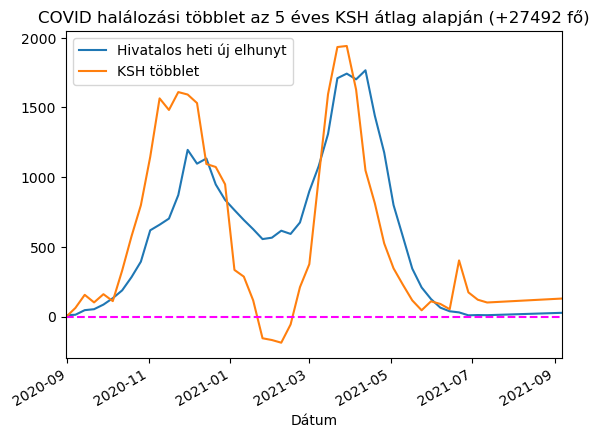
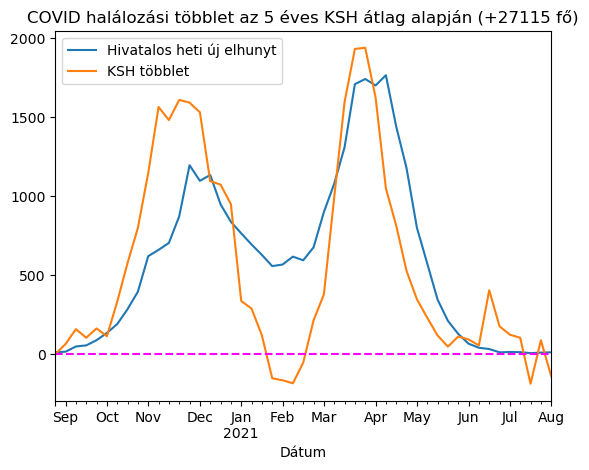
Hibajavítás

Changed region(s): [[0.0, 0.0, 1.0, 0.9498], [0.4584, 0.9498, 0.5806, 0.9795]]

diff --git a/kép_ksh_vs_hivatalos_halálozás.py b/kép_ksh_vs_hivatalos_halálozás.py
@@ -5,16 +5,18 @@ import pandas as pd
 import numpy as np
 import datetime as dt
 import os
+from datetime import timedelta
 
 BASEDIR=os.path.dirname(__file__)
 
 df = pd.read_csv(BASEDIR +"/adatok/stadat-halalozas-elokeszitve.csv", parse_dates=['A hét kező napja', 'A hét záró napja'], delimiter=';')
-dfweeks = df[(df['A hét sorszáma'] < 29.0) | (df['A hét sorszáma'] > 35.0)]
+maxdate = df['A hét kező napja'].max() + timedelta(days = -35)
+df = df[df['A hét kező napja'] <= maxdate]
 
-df2020 = dfweeks[dfweeks['A hét záró napja'] > "2020-08-30"]
+df2020 = df[df['A hét záró napja'] > "2020-08-30"]
 covid_elhunytak = df2020[['A hét kező napja', 'A hét sorszáma', 'Összesen összesen']].rename(columns = {'Összesen összesen': 'Elhunytak'}, inplace = False)
 
-dfatlag = dfweeks[dfweeks['A hét záró napja'] < "2020-01-01"]
+dfatlag = df[df['A hét záró napja'] < "2020-01-01"]
 
 dfatlag = dfatlag.groupby('A hét sorszáma').mean().reset_index()
 atlag_elhunytak = dfatlag[['A hét sorszáma', 'Összesen összesen']].rename(columns = {'Összesen összesen': 'KSH 5 éves átlag'}, inplace = False)
